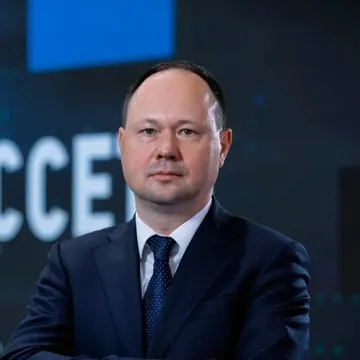
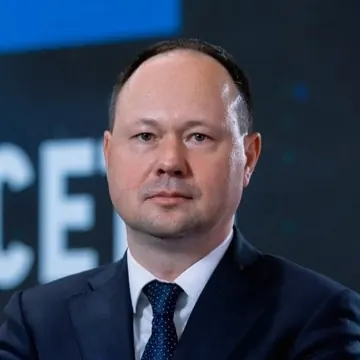
Приблизить фото Кузьмина, как у остальных
Скрипт optimize_images.py умеет брать для отдельных фото кадр ближе (CLOSE_UPS).

diff --git a/tools/optimize_images.py b/tools/optimize_images.py
@@ -23,6 +23,11 @@ ROOT = Path(__file__).resolve().parent.parent
 IMAGES = ROOT / 'images'
 QUALITY = 78
 
+# Photos where the person is too small in the top square: (left, top, side) of a closer square
+CLOSE_UPS = {
+    'kuzmin': (80, 60, 470),
+}
+
 
 def open_image(path, mode):
     # Photos from phones may be stored sideways with a rotation flag
@@ -37,9 +42,12 @@ def save_webp(image, path, quality=QUALITY, **options):
 def people():
     for source in sorted((IMAGES / 'people').glob('*.jpg')):
         photo = open_image(source, 'RGB')
-        side = min(photo.size)
-        left = (photo.width - side) // 2
-        square = photo.crop((left, 0, left + side, side))  # the card shows the top of the photo
+        if source.stem in CLOSE_UPS:
+            left, top, side = CLOSE_UPS[source.stem]
+        else:
+            side = min(photo.size)
+            left, top = (photo.width - side) // 2, 0  # the card shows the top of the photo
+        square = photo.crop((left, top, left + side, top + side))
         for size in (360, 720):
             version = square.resize((size, size), Image.LANCZOS) if side > size else square
             save_webp(version, source.with_name(f'{source.stem}-{size}.webp'))
